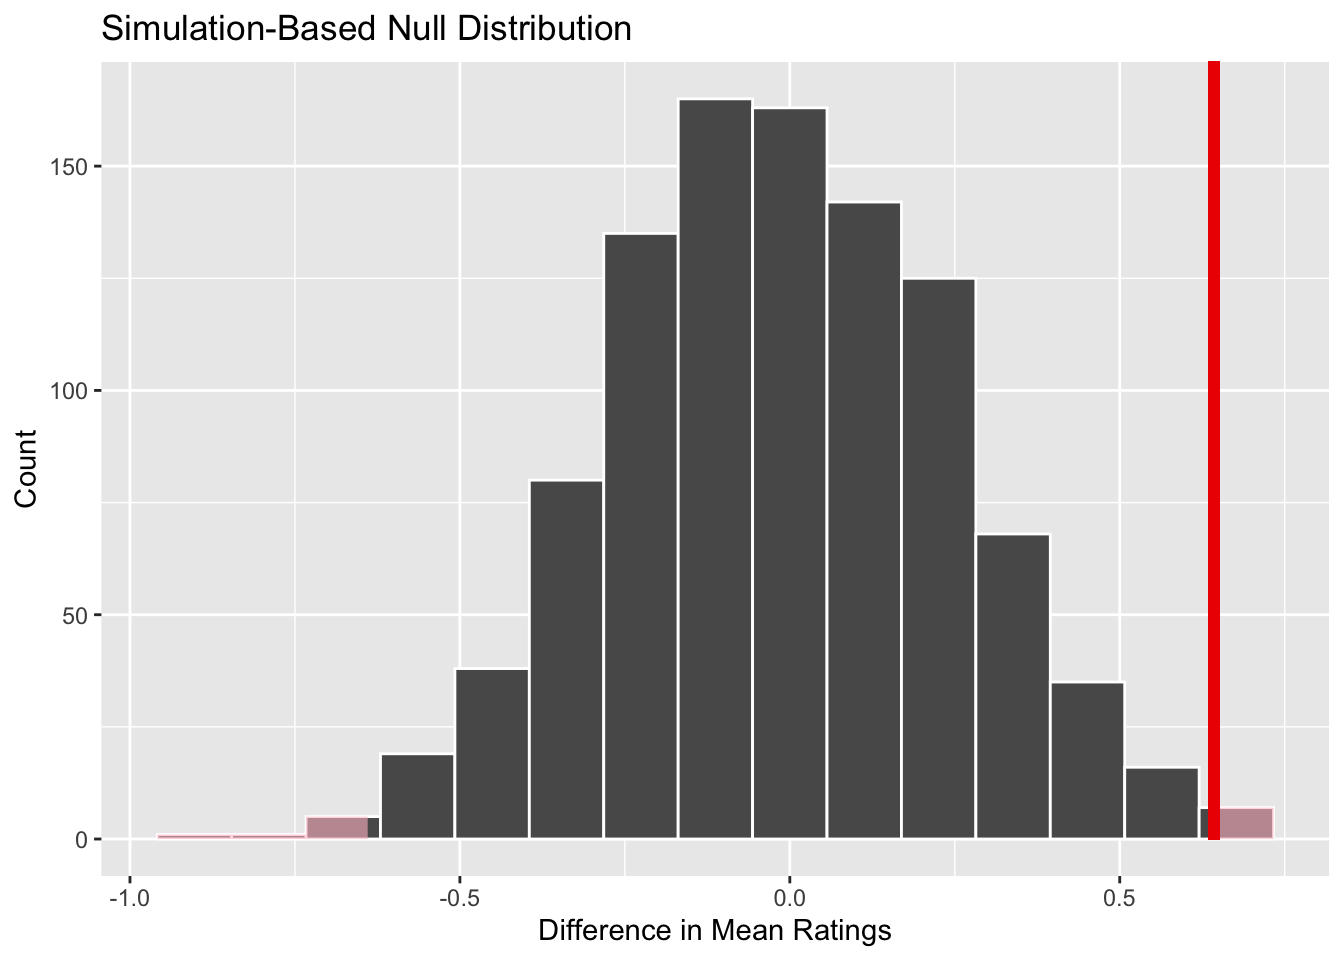
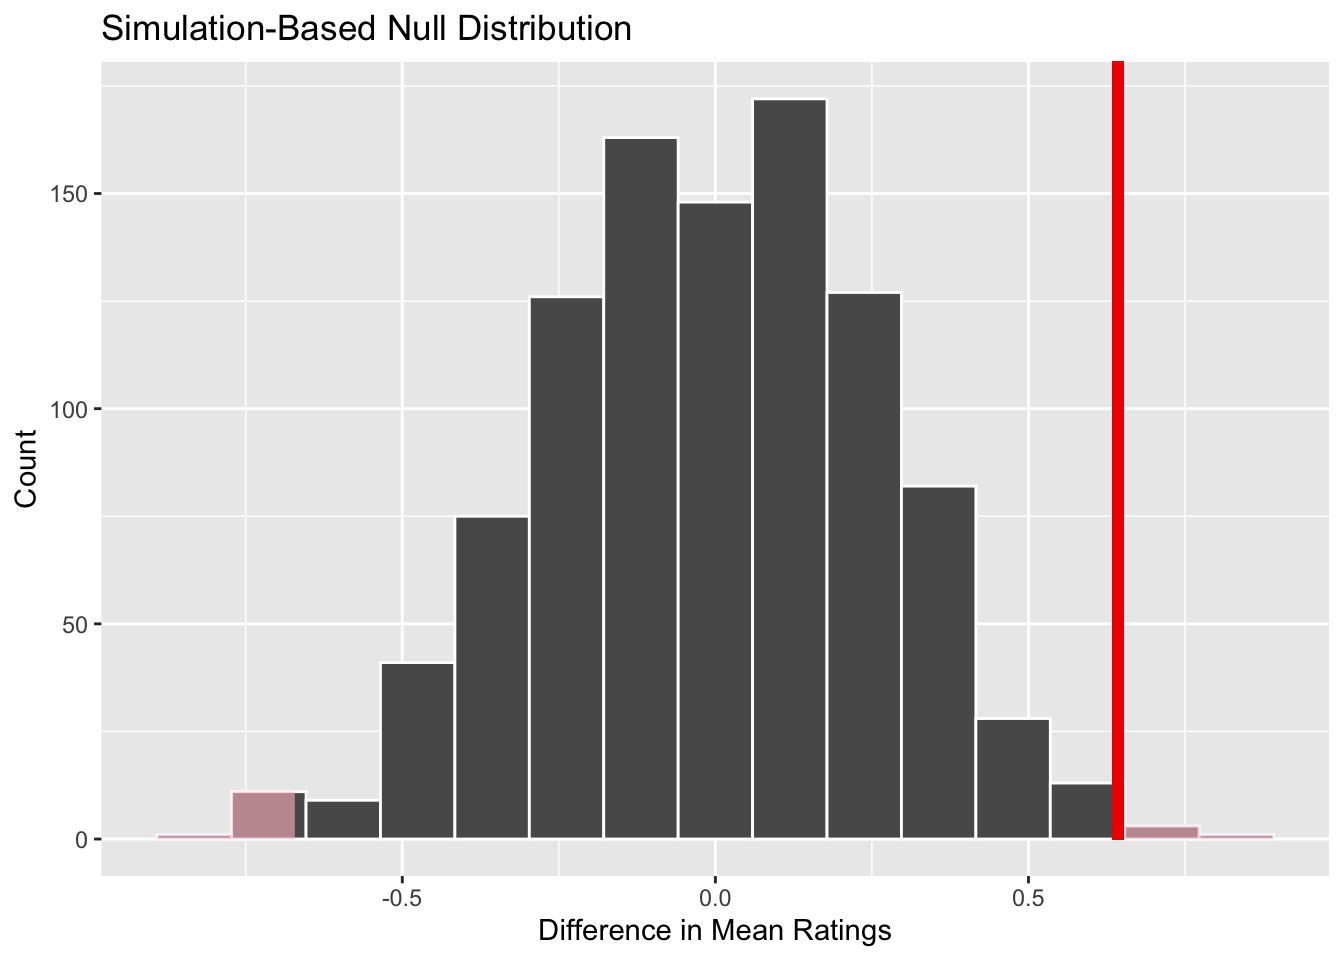
rtyu

diff --git a/content/blogs/blog1.html b/content/blogs/blog1.html
@@ -14,10 +14,7 @@ title: Spielberg vs Burton - who is better?
 <script src="/rmarkdown-libs/header-attrs/header-attrs.js"></script>
 
 
-<p>Today we will explore whether the mean IMDB rating for Steven Spielberg and Tim Burton are the same or not. We already have calculated confidence intervals for the mean ratings of these two directors and they overlap.</p>
-<p><img src="/Users/dariagneusheva/Desktop/LBS%20Courses/Data%20Analytics/my_website/data/directors.png" width="100%" style="display: block; margin: auto;" /></p>
-<p>First, we will reproduce this graph.</p>
-<p>In addition, we will run a hypothesis test. We will use both the <code>t.test</code> command and the <code>infer</code> package to simulate from a null distribution, where we assume zero difference between the two.</p>
+<p>Today we will explore whether the mean IMDB rating for Steven Spielberg and Tim Burton are the same or not. We will run a hypothesis test. We will use both the <code>t.test</code> command and the <code>infer</code> package to simulate from a null distribution, where we assume zero difference between the two.</p>
 <p>First, we define our null and alternative hypothesis. Our null hypothesis is that Steven Spielberg and Tim Burton have the same mean IMDB ratings, and our alternative hypothesis is that they do not have the same mean IMDB rating.</p>
 <p>We load the data and examine its structure:</p>
 <pre class="r"><code>movies &lt;- read_csv(here::here(&quot;data&quot;, &quot;movies.csv&quot;))
@@ -152,7 +149,7 @@ ggplot(data = null_dist, aes(x = stat)) +
 <pre><code>## # A tibble: 1 × 1
 ##   p_value
 ##     &lt;dbl&gt;
-## 1    0.01</code></pre>
+## 1   0.016</code></pre>
 <blockquote>
 <p>Looking at the simulation-based distribution, our p-value is still very small (0.006 &lt; 0.05), which confirms that we should reject our null hypothesis: Steven Spielberg and Tim Burton do not have same mean IMDB ratings.</p>
 </blockquote>
